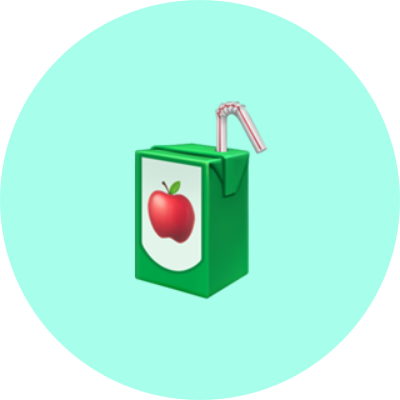
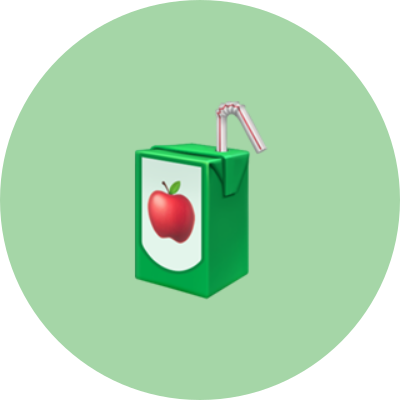
fixed create study group pfp bug

diff --git a/learnlink-ui/src/components/CreateStudyGroup.tsx b/learnlink-ui/src/components/CreateStudyGroup.tsx
@@ -10,9 +10,7 @@ import GroupUserList from '../components/GroupUserList';
 import { StylesConfig, ControlProps, CSSObjectWithLabel } from 'react-select';
 import CustomAlert from './CustomAlert';
 import GroupUserContainer from './GroupUserContainer';
-
-
-
+import ProfilePictureModal from './ProfilePictureModal';
 
 const animatedComponents = makeAnimated();
 
@@ -69,12 +67,14 @@ const CreateStudyGroup =(
   const [profilePic, setProfilePic] = useState<string | null>(null);
   const [imageUrl, setImageUrl] = useState<string | null>(null);
   const [image, setImage] = useState<File | null>(null);
-  const [imagePreview, setImagePreview] = useState(null);
+  const [imagePreview, setImagePreview] = useState<string | null>(null);
   const [alerts, setAlerts] = useState<{ id: number; alertText: string; alertSeverity: "error" | "warning" | "info" | "success"; visible: boolean }[]>([]);
   const alertVisible = alerts.some(alert => alert.visible);
 
   const [selectedGroup, setSelectedGroup] = useState<Group | null>(null);
   const [selectedGroupUsers, setSelectedGroupUsers] = useState<User[] | null>(null);
+  const [pfpModalOpen, setPfpModalOpen] = useState(false);
+  
 
   const REACT_APP_API_URL = process.env.REACT_APP_API_URL || 'http://localhost:2000';
 
@@ -121,6 +121,12 @@ const CreateStudyGroup =(
       ]);
     }
   };
+  const handleEmojiSelect = (emoji: string, URL:string) => {
+    console.log("PASSED URL", URL)
+    setImagePreview(URL)
+    setImageUrl(URL)  
+    setPfpModalOpen(false); // Close modal after selection
+  };
 
 
   // Fetch the study group details when the component is mounted
@@ -137,10 +143,6 @@ const CreateStudyGroup =(
       console.log("NEW", newStudyGroupID);
       await fetchStudyGroup();
     
-     
-      
-      
-     
       const token = localStorage.getItem('token');
       if (!token) {
         // alert('You need to be logged in to save the study group.');
@@ -151,7 +153,7 @@ const CreateStudyGroup =(
         return;
       }
 
-      const updatedStudyGroup = { name, description, subject, chatID, ideal_match_factor };
+      const updatedStudyGroup = { name, description, subject, chatID, ideal_match_factor, profile_pic: imageUrl };
 
       if (name==='' || name === null) {
         // alert('Please enter a study group name.');
@@ -176,8 +178,6 @@ const CreateStudyGroup =(
         updatedStudyGroup,
         { headers: { Authorization: `Bearer ${token}` } }
       );
-
-      handleUpload();
 
 
 
@@ -245,31 +245,7 @@ const CreateStudyGroup =(
     };
   
     const handleImageUpload = async (e: React.ChangeEvent<HTMLInputElement>) => {
-      const formData = new FormData();
-      
-      const file = e.target.files ? e.target.files[0] : null;
-      if (!file) return;  // If no file is selected, exit
-        setImage(file);  // Store the selected file for later use
-  
-      formData.append("profilePic", file);  // Append the file to FormData with the field name 'profilePic'
-      try {
-        // Send the image to the backend
-        const response = await fetch(`${REACT_APP_API_URL}/api/upload-preview`, {
-          method: "POST",
-          body: formData,  // Send the FormData
-        });
-    
-        if (response.ok) {
-          const data = await response.json();
-          if (data.preview) {
-            setImagePreview(data.preview);  // Set the preview image
-          }
-        } else {
-          console.error("Failed to upload image:", response.statusText);
-        }
-      } catch (error) {
-        console.error("Error uploading image:", error);
-      }
+      setPfpModalOpen(true)
     };
   
 
@@ -304,7 +280,7 @@ const CreateStudyGroup =(
                 className='upload-button'
                 src={imagePreview}  // Display the preview returned by the backend
                 alt="Selected Profile"
-                onClick={() => document.getElementById("image-upload")?.click()} // Allow re-selecting an image
+                onClick={() => setPfpModalOpen(true)} // Allow re-selecting an image
               />
             ) : (
               <div>
@@ -315,7 +291,7 @@ const CreateStudyGroup =(
                   alt="Profile"
                   width="100"
                   height={100}
-                  onClick={() => document.getElementById("image-upload")?.click()}
+                  onClick={() => setPfpModalOpen(true)}
 
                 />
               </div>
@@ -330,6 +306,11 @@ const CreateStudyGroup =(
               style={{ display: "none" }}
             />
             {/* <button onClick={handleUpload}>Upload</button> */}
+            <ProfilePictureModal
+            isOpen={pfpModalOpen}
+            onRequestClose={() => setPfpModalOpen(false)}
+            onSelect={handleEmojiSelect}
+          />
 
           </div>
         <div>

diff --git a/learnlink-ui/src/components/ProfilePictureModal.tsx b/learnlink-ui/src/components/ProfilePictureModal.tsx
@@ -31,7 +31,7 @@ const emojiOptions = [
   { emoji: "🌟", bgColor: "#FFE082", filename: "glowing-star_1f31f.png", URL: `${baseUrl}glowing-star_1f31f.png` },
   { emoji: "🛼", bgColor: "#F8BBD0", filename: "roller-skate.png", URL: `${baseUrl}roller-skate.png` },
   { emoji: "🐟", bgColor: "#81D4FA", filename: "fish.png", URL: `${baseUrl}fish.png` },
-  { emoji: "🥤", bgColor: "#A7FFEB", filename: "beverage-box.png", URL: `${baseUrl}beverage-box.png` },
+  { emoji: "🥤", bgColor: "#A7FFEB", filename: "cup-with-straw.png", URL: `${baseUrl}cup-with-straw.png` },
   { emoji: "🏀", bgColor: "#FFE082", filename: "basketball.png", URL: `${baseUrl}basketball.png` },
   { emoji: "🛹", bgColor: "#B2EBF2", filename: "skateboard.png", URL: `${baseUrl}skateboard.png` },
   { emoji: "🎸", bgColor: "#EF9A9A", filename: "guitar.png", URL: `${baseUrl}guitar.png` },

diff --git a/learnlink-ui/src/utils/emojiFuncs/generatePngs.js b/learnlink-ui/src/utils/emojiFuncs/generatePngs.js
@@ -39,7 +39,7 @@ const emojisWithBackgrounds = [
     { emoji: "🌟", bgColor: "#FFE082", filename: "glowing-star_1f31f.png" },
     { emoji: "🛼", bgColor: "#F8BBD0", filename: "roller-skate.png" },
     { emoji: "🐟", bgColor: "#81D4FA", filename: "fish.png" },
-    { emoji: "🥤", bgColor: "#A7FFEB", filename: "beverage-box.png" },
+    { emoji: "🥤", bgColor: "#A7FFEB", filename: "cup-with-straw.png" },
     { emoji: "🏀", bgColor: "#FFE082", filename: "basketball.png" },
     { emoji: "🛹", bgColor: "#B2EBF2", filename: "skateboard.png" },
     { emoji: "🎸", bgColor: "#EF9A9A", filename: "guitar.png" },

diff --git a/learnlink-ui/src/components/EditStudyGroup.tsx b/learnlink-ui/src/components/EditStudyGroup.tsx
@@ -122,7 +122,7 @@ const EditStudyGroup =(
         const data = response.data;
         console.log(data)
         setStudyGroup(data);
-        setName(data.name);
+        setName(data.name); 
         setImagePreview(data.profilePic? data.profilePic : "https://learnlink-pfps.s3.us-east-1.amazonaws.com/profile-pictures/circle_busts-in-silhouette.png")
         setDescription(data.description);
         setSubject(data.subject);
